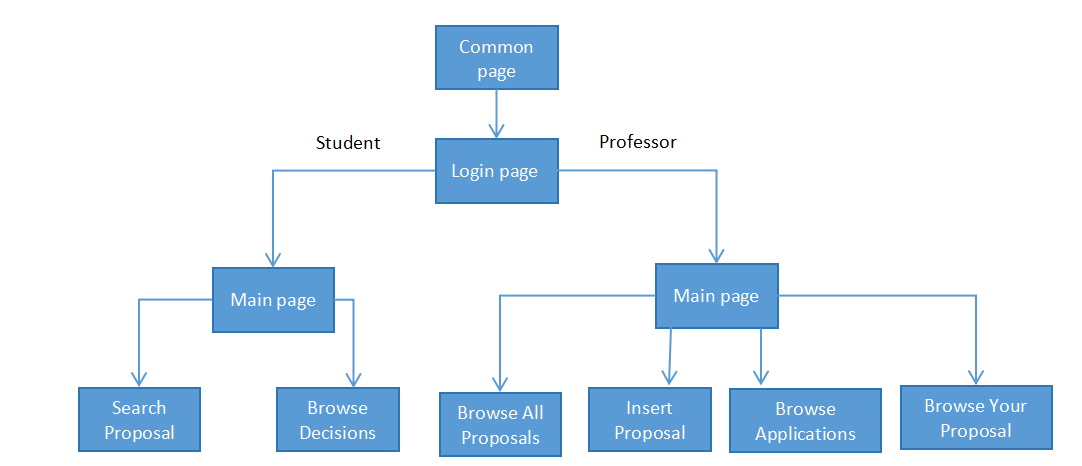
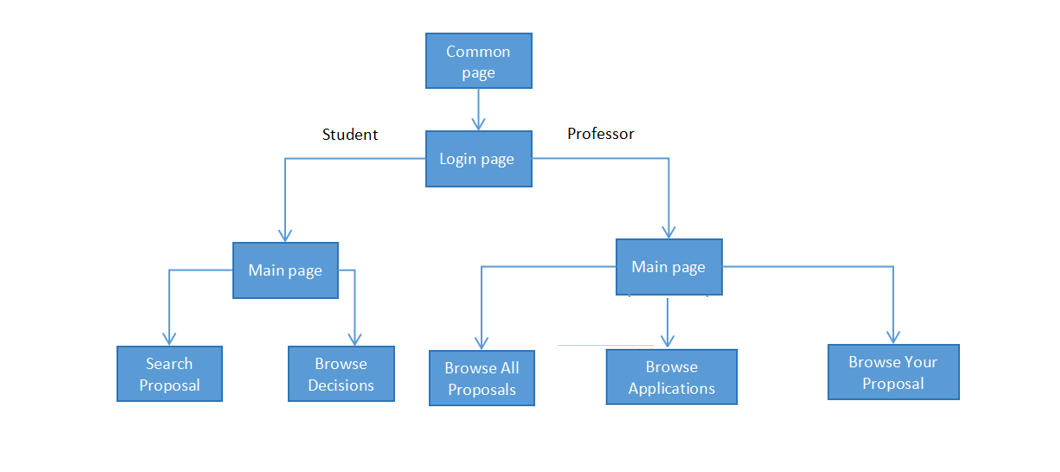
frontend documentation

Changed region(s): [[0.0623, 0.03, 0.9962, 0.9914]]

diff --git a/frontend/README.md b/frontend/README.md
@@ -2,8 +2,8 @@
 
 ## Thesis Management
 
-_Thesis Management_ is a web application designed to help students and professors in keeping track of their thesis proposals.\
-_Students_ can log in and search for thesis topics that they are interested in, apply for them and check their applications' statuses.\
+_Thesis Management_ is a web application designed to help students and professors in keeping track of their thesis proposals.
+_Students_ can log in and search for thesis topics that they are interested in, apply for them and check their applications' statuses.
 _Professors_ can view thesis that they are interested in, create new thesis topics, process student applications and manage their own thesis projects.
 
 ## Applied technologies
@@ -11,6 +11,7 @@ _Professors_ can view thesis that they are interested in, create new thesis topi
 The front-end is implemented by means of '__HTML__ + __CSS__ + __JavaScript__ + __React__ + __Vite__'
 
 ## Front-end schema
+
 ![Front_Schema](images/Front_Schema.png)
 
 ## Front-end architecture
@@ -22,34 +23,36 @@ ThesisManagement
         ├── pages
            └── ApplyToProposal.jsx  
            └── BrowseAndAcceptApplication.jsx
-           └── BrowseApplicationDecision.jsx    
+           └── BrowseApplicationDecision.jsx  
            └── BrowseProposal.jsx
            └── InfoBox.jsx 
            └── LoginPage.jsx 
            └── MainPage.jsx 
            └── Navigation.jsx
            └── ProposalForm.jsx 
-           └── SearchForProposals.jsx    
+           └── SearchForProposals.jsx  
         ├── API.JSX  
         └── APP.css
         └── APP.jsx 
         └── index.css
         └── main.jsx
 ```
+
 1. _ApplyToProposal.jsx_: page for applying to a proposal.
 2. _BrowseAndAcceptApplication.jsx_: page for professor accepting or rejecting students' applications.
 3. _BrowseApplicationDecision.jsx_: page for browsing students' applications decisions.
-3. _BrowseProposal.jsx_: page for browsing active proposals.
-4. _InfoBox.jsx_: page for displaying all kinds of service information.
-5. _LoginPage.jsx_: page for login function.
-6. _MainPage.jsx_: main page of the application.
-7. _Navigation.jsx_: page for identifying the user's status.
-8. _ProposalForm.jsx_: page for formatting proposals' data.
-9. _SearchForProposals.jsx_: page for searching proposals with eventual filters.
-10. _API.jsx_: page for connecting to backend.
-11. _APP.jsx_: page for routing all pages.
+4. _BrowseProposal.jsx_: page for browsing active proposals.
+5. _InfoBox.jsx_: page for displaying all kinds of service information.
+6. _LoginPage.jsx_: page for login function.
+7. _MainPage.jsx_: main page of the application.
+8. _Navigation.jsx_: page for identifying the user's status.
+9. _ProposalForm.jsx_: page for formatting proposals' data.
+10. _SearchForProposals.jsx_: page for searching proposals with eventual filters.
+11. _API.jsx_: page for connecting to backend.
+12. _APP.jsx_: page for routing all pages.
 
 ## How to use
+
 1. Open a terminal in `frontend` folder.
 2. Run `npm install` to install all the dependencies
 3. Run `npm run dev` to start loading pages.
@@ -60,74 +63,105 @@ ThesisManagement
 ### Common Page
 
 #### 1. First Common page.
+
 _Everyone_ can browse all active thesis.
 ![normal_MainPage_nofilter](images/normal_MainPage_nofilter.png)
 
 #### 2. First Common page - with filter.
+
 _Everyone_ can browse thesis by applying filter .
 ![normal_MainPage_withfilter](images/normal_MainPage_withfilter.png)
 
 #### 3. Login page.
-A _user_ can click the top-right button to access the `login` page.\
+
+A _user_ can click the top-right button to access the `login` page.
 When valid username and password are submitted, the system will identify the student or the professor automatically.
+
 ![normal_MainPage_withfilter-Redarrow](images/normal_MainPage_withfilter-Redarrow.png)
+
+For the login, the user has 2 different uptions to choose between them, one is Login and the other one is login with SAML.
 ![login](images/login.png)
 
 ### Student Side.
+
 When a _user_ has logged in as a _student_, he/she will access the `Main Page` for Student.
 ![MainPage_Student](images/MainPage_Student.png)
 
 #### 1. Search Proposal page.
+
 _Students_ can browse thesis by applying filters.
 ![Thesis_Search_Student](images/Thesis_Search_Student.png)
 
 #### 2. Thesis apply page.
+
 _Students_ can directly click on the thesis title to access the `apply` page when they find a thesis in which they are interested.
 ![Thesis_Apply_Student](images/Thesis_Apply_Student.png)
 
-After clicking the 'Apply now!' button, they will be able to view the new application status in `Browse Decision` page later.
+After clicking the 'Apply now!' button, in case of successful apply, a pop-up notification will be shown on the right side of the page and then the student will be able to view the new application status in `Browse Decision` page.
+
+
 ![Thesis_afterApply_Student](images/Thesis_afterApply_Student.png)
 
 #### 3. Browse Decision page.
+
 _Students_ can click on the right BIG button in the main page to view the decisions of their own applications made by the professors.
 ![Browse_appDec_Student](images/Browse_appDec_Student.png)
 
 ### Teacher Side.
+
 When a _user_ has logged in as a _professor_, he/she will access the `Main Page` for Professor.
 ![MainPage_Prof](images/MainPage_Prof.png)
 
 #### 1. Search Proposal page.
+
 _Professors_ can browse thesis by applying filters.
 ![Thesis_Search_Prof](images/Thesis_Search_Prof.png)
 
 #### 2. Thesis detail page.
+
 _Professors_ can browse thesis details by directly clicking on the thesis title.
 ![Thesis_detail_Prof](images/Thesis_detail_Prof.png)
 
 #### 3. Insert thesis page.
-_Professors_ can click on the button `Insert a new thesis proposal` in the main page to create a new proposal.\
+
+_Professors_ can click on the button `Insert a new thesis proposal` in the main page to create a new proposal.
 When accessing the page, they can insert data.
 ![insertThesis_Prof](images/insertThesis_Prof.png)
 
-When they are finished, they can view the new proposal summary in `Browse your Proposals` page.
-![insertThesis_Prof_Result](images/insertThesis_Prof_Result.png)
+In case of successful insertion a pop-up notification will be shown on the top right of the page.
+![insertThesis_Prof_Result](images/Succeessfully_inserted_proposal.png)
+
+ afterwards they can view the new proposal summary in `Browse your Proposals` page.
 
 #### 4. Browse thesis page.
+
 _Professors_ can click on the button `Browse your Proposals` in the main page to browse their own proposals.
+In this page the professors can see all the thesises inserted by them Separated into two different sections, Active and Archived proposals.
 ![Browse_app_Prof_noclick](images/Browse_app_Prof_noclick.png)
 
-When they click on a proposal, they can click on the `Modify` button and access a page to modify the proposal information.
-![Browse_app_Prof_withclick](images/Browse_app_Prof_withclick.png)
+By clicking on the `copy` button and they can make a copy of the existing thesis proposal.
+![Browse_app_Prof_withclick](images/prof_copy_prop.png)
+
+When they click on a proposal, they can click on the `update` button and access the form to modify the proposal information.
+![Browse_app_Prof_withclick](images/Prof_update_proposal.png)
+
+In this page the professor also has the option to archive a proposal, for this case they can click on the `archive` button and the chosen proposal will be immediately archived and moved to the below table.
+![Browse_app_Prof_withclick](images/prof_archive_prop.png)
+
+Also it is possible to delete a thesis proposal completely by clicking on the `delete` button.
+![Browse_app_Prof_withclick](images/prof_delete_proposal.png)
 
 #### 5. Process Application page.
-When _Students_ send a new aaplication to a _Professor_.
+
+When _Students_ send a new application to a _Professor_.
 ![New_Apply_Prof](images/New_Apply_Student.png)
 
-_Professors_ can process the applications from students by clicking on the button `Accept` or `Reject` in the page.
+_Professors_ can process the students' applications by clicking on the button `Accept` or `Reject` in the page. 
 ![New_Apply_Prof](images/New_Apply_Prof.png)
 
 After processing, _Professors_ can see the application's status in the same page.
 ![New_ApplyResult_Prof](images/New_ApplyResult_Prof.png)
 
-_Students_ can view the newest result in the `Browse Decision` page.
+_Students_ can view the newest result in the `Browse Decision` page, also if they have waiting applications, in case of acception or rejection of thier application they will recieve an email containing the result of professors decision.
+
 ![New_ApplyResult_Student](images/New_ApplyResult_Student.png)
